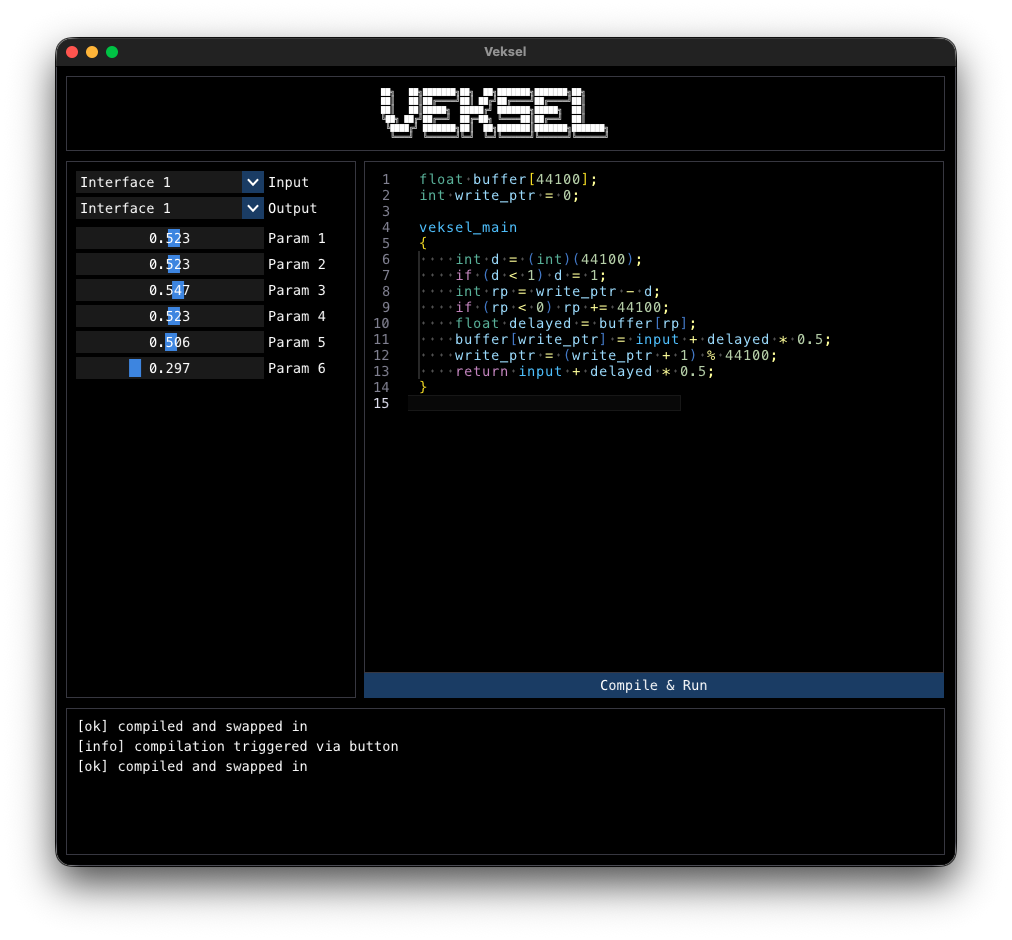
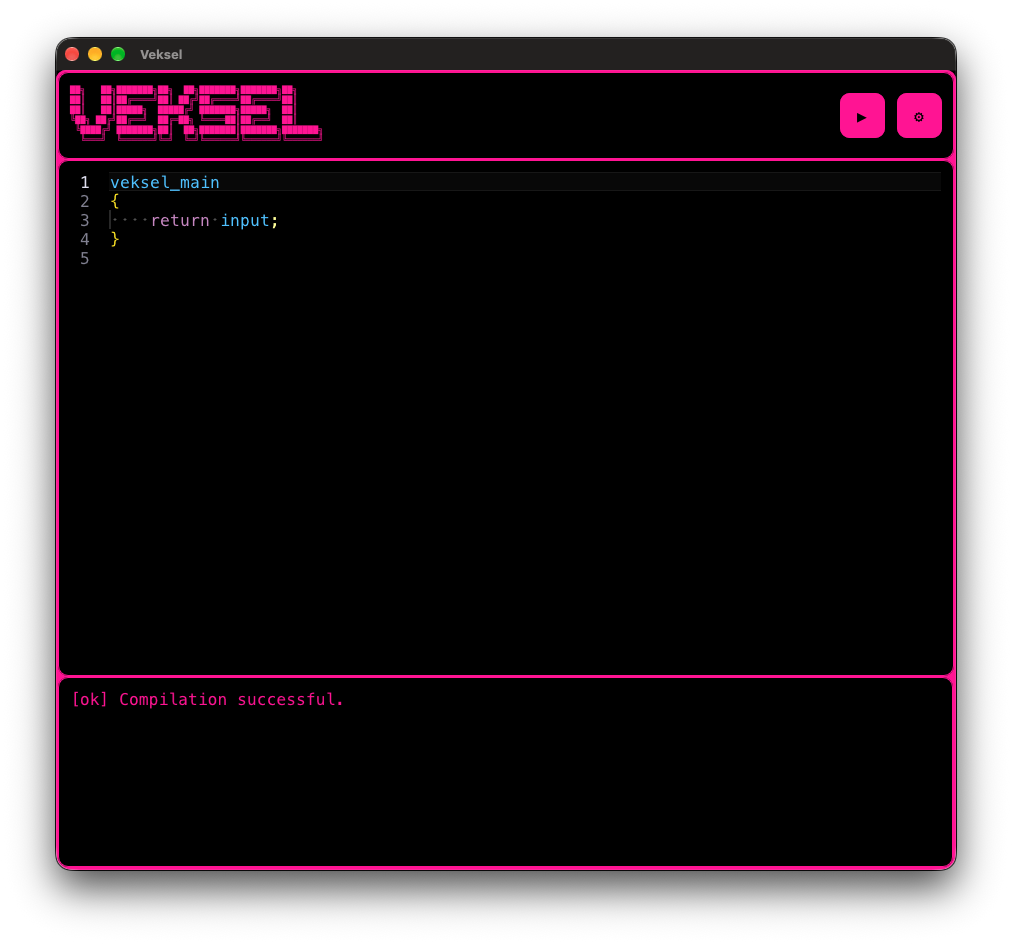
update readme

Changed region(s): [[0.0306, 0.0309, 0.9496, 0.9255], [0.3676, 0.2468, 0.7964, 0.4319]]

diff --git a/README.md b/README.md
@@ -17,23 +17,28 @@ veksel_main
 }
 ```
 
-Press **Compile**. If it builds, the new code is swapped into the running stream.
+Press **▶**. If it builds, the new code is swapped into the running stream.
 If it doesn't, the errors show in the log and the previous plugin keeps playing.
 You get access to `<math.h>`, `<stdlib.h>`, `<stdio.h>` and `M_PI`.
+
+The **⚙** button switches the editor to the audio settings page (output device,
+input device, sample rate, buffer size). Press it again to go back to the editor.
 
 
 ## How it works
 
 Three threads, one job each:
 
-- **main**: the ImGui window: editor, Compile button, log.
-- **compiler**: runs clang, loads the resulting `.dylib`/`.so`, frees old plugins.
+- **main**: the ImGui window: editor, ▶ and ⚙ buttons, settings page, log.
+- **compiler**: runs clang on its own thread, so the UI stays responsive while it builds.
 - **audio**: PortAudio callback, runs the plugin.
 
-A new plugin goes from the compiler thread to the audio thread through a single
-atomic pointer, and the old one is handed back to be unloaded on the compiler
-thread. No locks, allocation or `dlclose` on the audio path. Output is checked
-for NaN/inf and clamped to ±1 before it reaches the speakers.
+The compiler thread builds the `.dylib`/`.so`, loads it, and hands it to the main thread through a mutex-guarded slot. 
+
+The main thread then asks the audio thread to stop using the current plugin, waits for the acknowledgement, swaps in the new one and unloads the old one. 
+
+The audio thread never locks, allocates or calls `dlclose`.
+For the moment of the swap, audio passes the input straight through.
 
 ## Rules for plugin code
 
@@ -43,18 +48,19 @@ reload.
 
 ## Limits
 
-- Mono in, mono out (For now).
+- Mono in, mono out (for now). The output sample is copied to both speakers.
 - A plugin that crashes (segfault) or never returns (infinite loop) takes the whole program down.
-- Compiling blocks until clang finishes.
-- Needs clang at `/usr/bin/clang`, PortAudio, GLFW, Dear ImGui and C++20.
+- Plugins don't know the sample rate.
+- macOS only for now: the compile command uses `-dynamiclib`, and the font path is Menlo.
+- Needs clang (path set in the engine settings), PortAudio, GLFW, Dear ImGui and C++20.
 - Your code isn't saved. Close the window and it's gone.
 
 ## TODO
 
-- [ ] Survive a broken plugin, so run a test in a new process before
-      loading, and dont load if it breaks.
+- [ ] Wire the settings page up to PortAudio (devices, sample rate, buffer size).
+- [ ] Survive a broken plugin: run a test in a new process before
+      loading, and don't load if it breaks.
 - [ ] Save and load the editor text (currently lost on exit).
-- [ ] Knobs and switches the plugin can read.
+- [ ] Expose the sample rate to plugins.
 - [ ] Stereo plugins (`veksel_main_stereo`).
-- [ ] Mark compile errors in the actual editor.
-- [ ] Make cross platfrom.
+- [ ] Make it cross platform (`-shared` on Linux, `.dll` on Windows, fonts).
